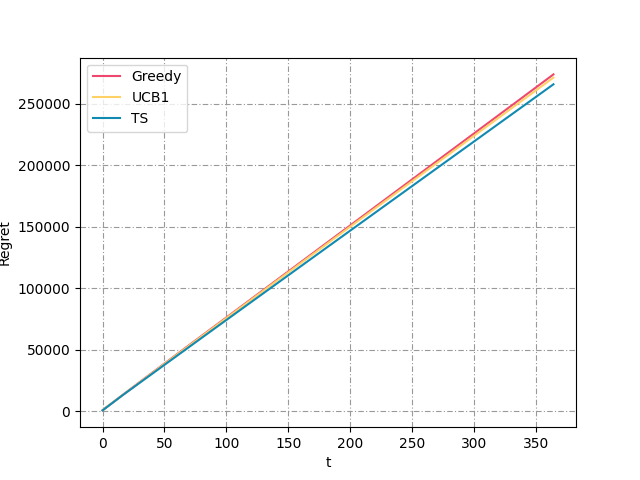
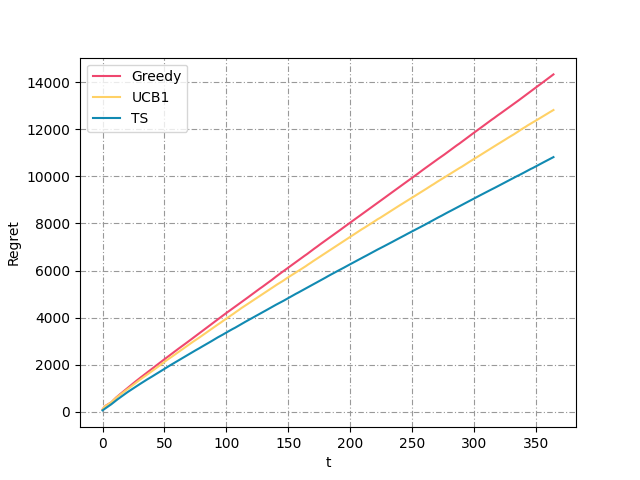
grafici punto 3

diff --git a/experiments/experiment_3.py b/experiments/experiment_3.py
@@ -48,7 +48,13 @@ class Experiment3():
         self.uc_comulative_regret_per_experiment = []
         self.ts_comulative_regret_per_experiment = []
 
-        self.opt_per_experiment = []
+        self.gr_reward_per_experiment = []
+        self.uc_reward_per_experiment = []
+        self.ts_reward_per_experiment = []
+
+        #self.opt_per_experiment = []
+
+        self.opt_per_exp = []
 
     def run(self):
         
@@ -69,7 +75,13 @@ class Experiment3():
             uc_regret_2 = []
             ts_regret_2 = []
 
-            observed_class = [0, 0, 0, 0]## per il grafico 2
+            gr_reward_2 = []
+            uc_reward_2 = []
+            ts_reward_2 = []
+
+            opt_days = []
+
+            observed_class = [0, 0, 0, 0] ## per il grafico 2
 
             for t in range(0,self.T):
 
@@ -81,7 +93,7 @@ class Experiment3():
                 daily_regret_uc = 0 ## per il grafico 2
                 daily_regret_ts = 0 ## per il grafico 2
 
-                people = pg.generate_people_num(500)
+                people = pg.generate_people_num(50)
                 daily_opt = self.opt * people
 
                 gr_pulled_arm = gr_learner.pull_arm()
@@ -123,6 +135,13 @@ class Experiment3():
                 uc_regret_2.append(daily_regret_uc) ## per il grafico 2
                 ts_regret_2.append(daily_regret_ts) ## per il grafico 2
 
+                gr_reward_2.append(gr_daily_reward) ## per il grafico 3
+                uc_reward_2.append(uc_daily_reward) ## per il grafico 3
+                ts_reward_2.append(ts_daily_reward) ## per il grafico 3
+
+                opt_days.append(daily_opt)
+
+
             self.gr_regret_per_experiment.append(gr_regret)
             self.uc_regret_per_experiment.append(uc_regret)
             self.ts_regret_per_experiment.append(ts_regret)
@@ -131,10 +150,18 @@ class Experiment3():
             self.uc_regret_per_experiment_2.append(uc_regret_2) ## per il grafico 2
             self.ts_regret_per_experiment_2.append(ts_regret_2) ## per il grafico 2
 
+            self.gr_reward_per_experiment.append(gr_reward_2)
+            self.uc_reward_per_experiment.append(uc_reward_2)
+            self.ts_reward_per_experiment.append(ts_reward_2)
+
             self.gr_comulative_regret_per_experiment.append(np.cumsum(gr_regret))
             self.uc_comulative_regret_per_experiment.append(np.cumsum(uc_regret))
             self.ts_comulative_regret_per_experiment.append(np.cumsum(ts_regret)) 
-            #print(self.gr_comulative_regret_per_experiment)   
+            #print(self.gr_comulative_regret_per_experiment)  
+            # 
+            self.opt_per_exp.append(opt_days) 
+
+            
             
 
 
@@ -144,13 +171,13 @@ class Experiment3():
         plt.xlabel("t")
         plt.ylabel("Regret")
         plt.plot(np.cumsum(np.mean(self.gr_regret_per_experiment, axis=0)), self.colors[0], label="Greedy")
-        plt.plot(1.96*np.std(self.gr_comulative_regret_per_experiment, axis=0)/np.sqrt(self.n_experiments) + np.cumsum(np.mean(self.gr_regret_per_experiment, axis=0)), self.colors[0],linestyle='dashed')
+        plt.plot(1.96*np.std(self.gr_comulative_regret_per_experiment, axis=0)/np.sqrt(self.n_experiments) + np.cumsum(np.mean(self.gr_regret_per_experiment, axis=0)), self.colors[0],linestyle='dashed',label="Greedy Confidence Interval 95%")
         plt.plot(-1.96*np.std(self.gr_comulative_regret_per_experiment, axis=0)/np.sqrt(self.n_experiments) + np.cumsum(np.mean(self.gr_regret_per_experiment, axis=0)), self.colors[0],linestyle='dashed')
         plt.plot(np.cumsum(np.mean(self.uc_regret_per_experiment, axis=0)), self.colors[1], label="UCB1")
-        plt.plot(1.96*np.std(self.uc_comulative_regret_per_experiment, axis=0)/np.sqrt(self.n_experiments) + np.cumsum(np.mean(self.uc_regret_per_experiment, axis=0)),self.colors[1],linestyle='dashed')
+        plt.plot(1.96*np.std(self.uc_comulative_regret_per_experiment, axis=0)/np.sqrt(self.n_experiments) + np.cumsum(np.mean(self.uc_regret_per_experiment, axis=0)),self.colors[1],linestyle='dashed',label="UCB1 Confidence Interval 95%")
         plt.plot(-1.96*np.std(self.uc_comulative_regret_per_experiment, axis=0)/np.sqrt(self.n_experiments) + np.cumsum(np.mean(self.uc_regret_per_experiment, axis=0)),self.colors[1],linestyle='dashed')
         plt.plot(np.cumsum(np.mean(self.ts_regret_per_experiment, axis=0)), self.colors[3], label="TS")
-        plt.plot(1.96*np.std(self.ts_comulative_regret_per_experiment, axis=0)/np.sqrt(self.n_experiments) + np.cumsum(np.mean(self.ts_regret_per_experiment, axis=0)),self.colors[3],linestyle='dashed')
+        plt.plot(1.96*np.std(self.ts_comulative_regret_per_experiment, axis=0)/np.sqrt(self.n_experiments) + np.cumsum(np.mean(self.ts_regret_per_experiment, axis=0)),self.colors[3],linestyle='dashed',label="TS Confidence Interval 95%")
         plt.plot(-1.96*np.std(self.ts_comulative_regret_per_experiment, axis=0)/np.sqrt(self.n_experiments) + np.cumsum(np.mean(self.ts_regret_per_experiment, axis=0)),self.colors[3],linestyle='dashed')
         plt.legend(loc=0)
         plt.grid(True, color='0.6', dashes=(5, 2, 1, 2))
@@ -165,3 +192,14 @@ class Experiment3():
         plt.legend(loc=0)
         plt.grid(True, color='0.6', dashes=(5, 2, 1, 2))
         plt.savefig("img/experiments/experiment_3_1.png")
+
+        plt.figure(2)
+        plt.xlabel("t")
+        plt.ylabel("Reward")
+        plt.plot(np.mean(self.gr_reward_per_experiment, axis=0), self.colors[0], label="Greedy")
+        plt.plot(np.mean(self.uc_reward_per_experiment, axis=0), self.colors[1], label="UCB1")
+        plt.plot(np.mean(self.ts_reward_per_experiment, axis=0), self.colors[3], label="TS")
+        plt.plot(np.mean(self.opt_per_exp, axis=0), self.colors[2], label="Opt")
+        plt.legend(loc=0)
+        plt.grid(True, color='0.6', dashes=(5, 2, 1, 2))
+        plt.savefig("img/experiments/experiment_3_2.png")
